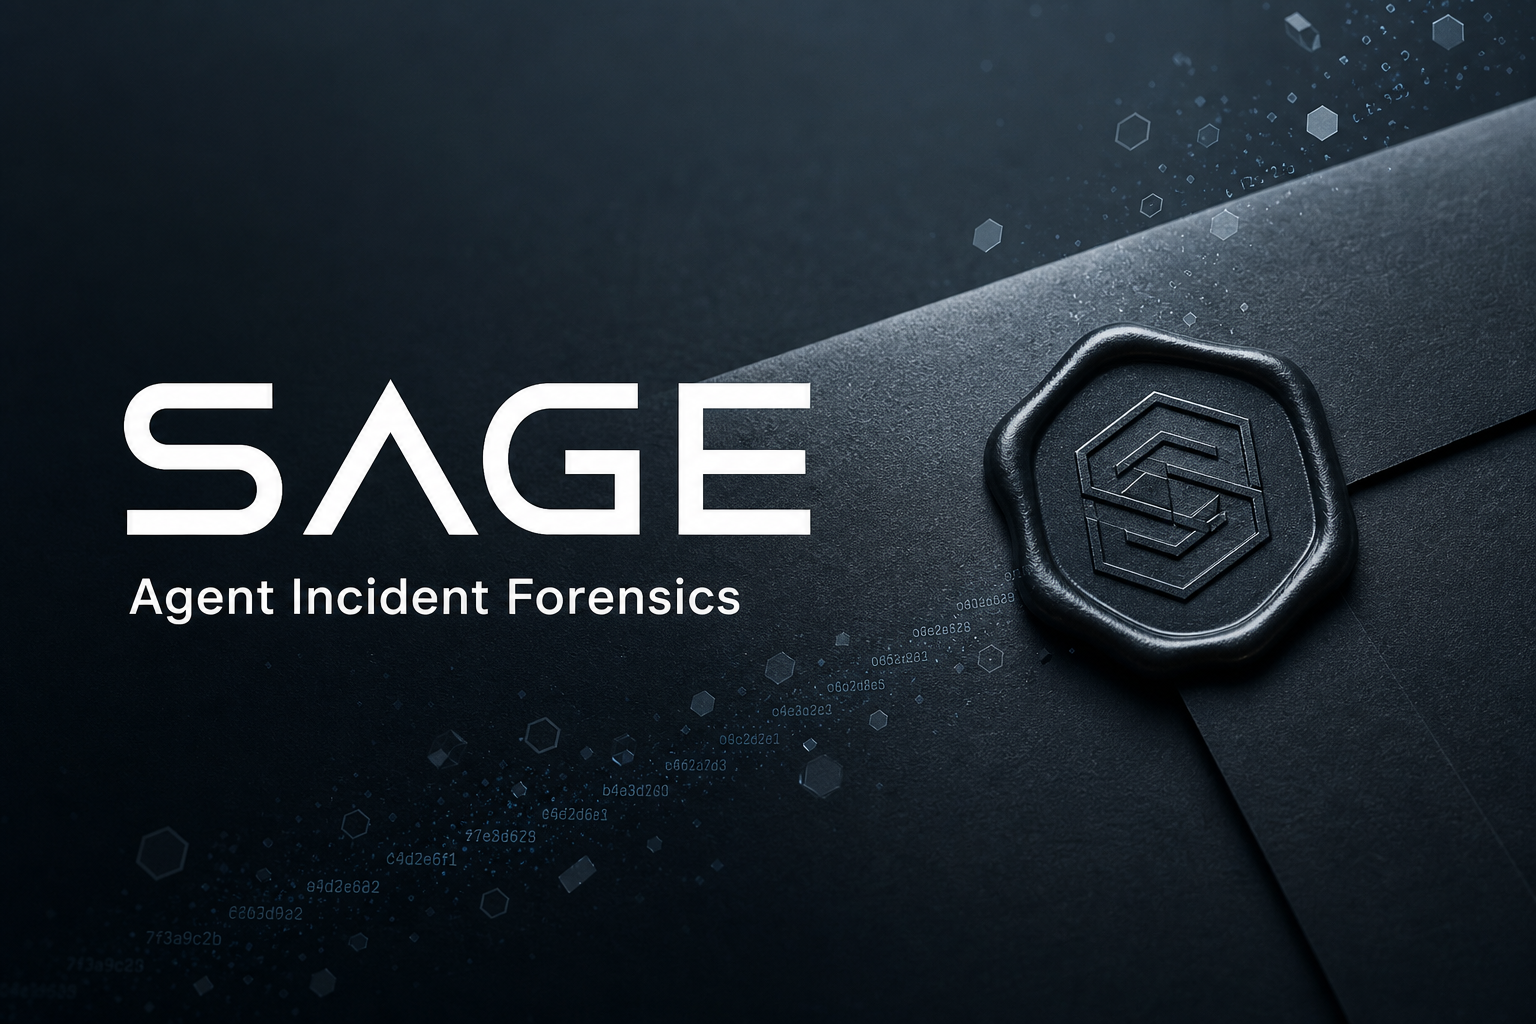
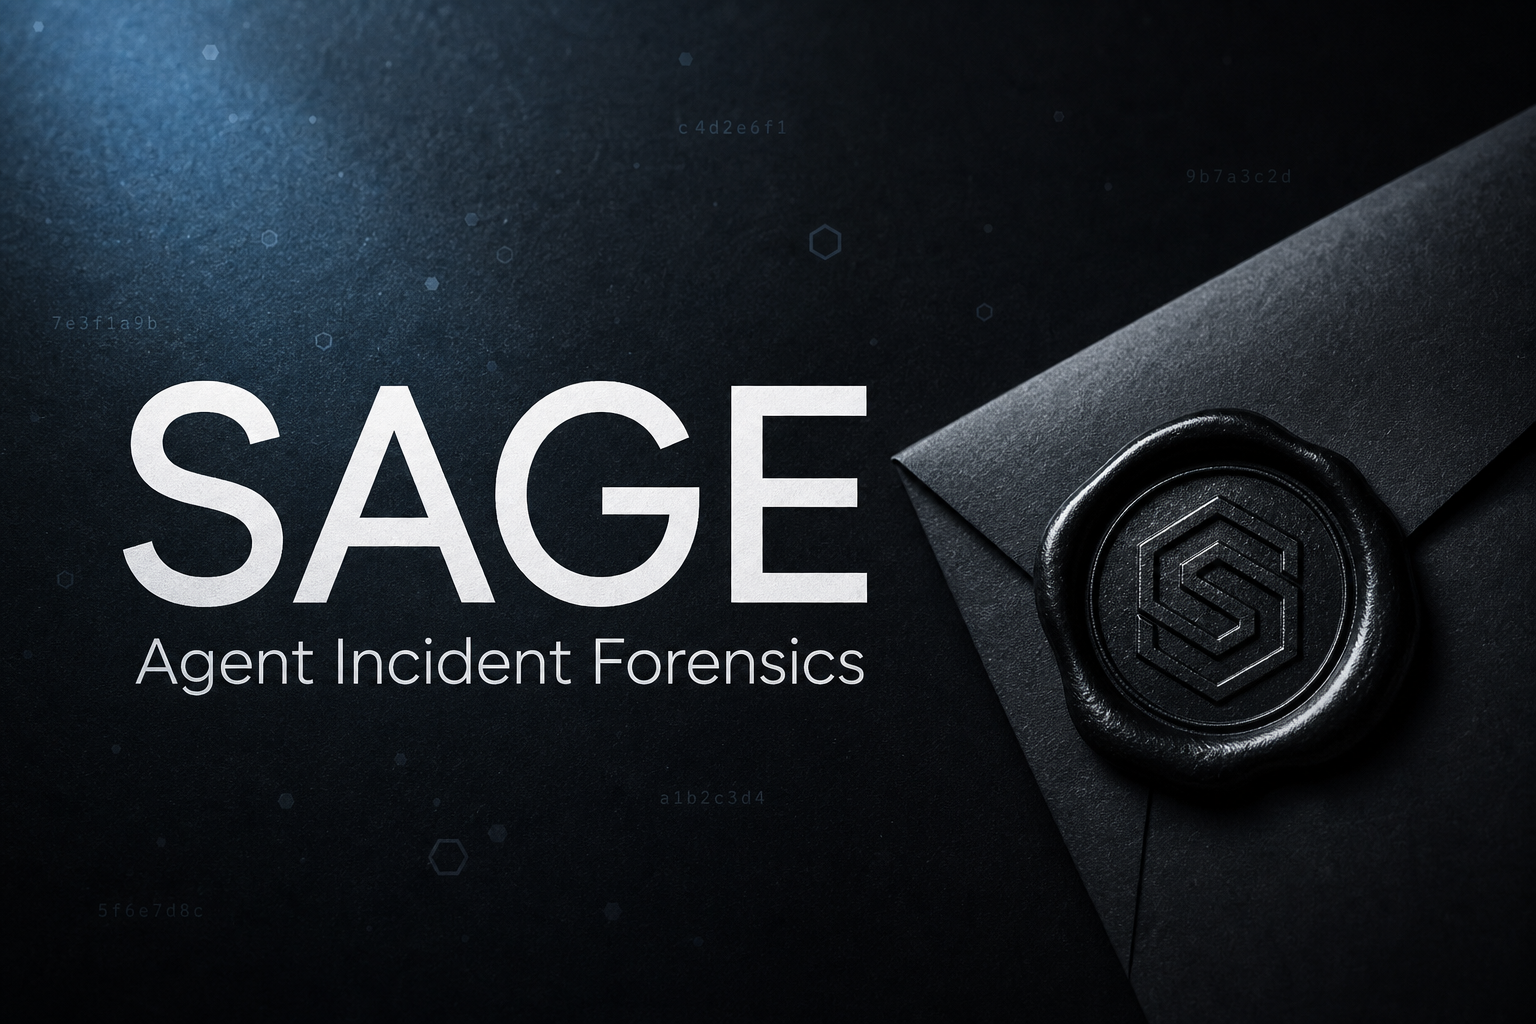
Refresh LinkedIn hero and launch copy for v2.2.0.

diff --git a/docs/LINKEDIN_LAUNCH.md b/docs/LINKEDIN_LAUNCH.md
@@ -1,38 +1,47 @@
 # LinkedIn launch kit
 
-## Post (copy-paste)
+**Status:** repo public · **v2.2.0** · FSL-1.1-ALv2 · CI green on `main`
+
+**Image file:** `docs/assets/sage-linkedin-hero.png` (16:9 — upload this as the post media)
 
 ---
 
-Most agent stacks can *show* you a trace.
+## Post (copy-paste exactly)
 
-Almost none can **hand you evidence** another team can re-verify without trusting your UI.
+Most teams can *show* you an agent trace.
 
-That’s the gap **SAGE** fills.
+Almost none can hand you **evidence** another company can re-verify — offline — without trusting your UI.
 
-SAGE is open-source **agent incident forensics** — not observability SaaS, not an RCA scoreboard, not a chat wrapper.
+That’s the hole **SAGE** fills.
 
-You record a run → redact secrets before hash → seal a portable pack → an auditor verifies it offline with a pinned key and a fail-closed policy.
+SAGE is **agent incident forensics**.
 
-If the pack was tampered with, verify fails. Hard stop.
+Not observability SaaS.  
+Not an RCA leaderboard.  
+Not another chat wrapper.
 
-What it proves: **integrity + custody of what was recorded.**  
-What it does *not* prove: that the model told the truth. (We say that out loud on purpose.)
+You record a run → secrets get redacted before hash → you seal a portable pack → an auditor verifies it fail-closed with a pinned key.
 
-If you ship agents in production and you’ve ever had a “what did it actually do?” incident — star it, break it, or DM me. Looking for design partners who will be brutally honest.
+Tamper the pack? Verify dies. Hard stop.
+
+What it proves: **integrity and custody of what was recorded.**  
+What it does *not* prove: that the model told the truth.  
+(We put that in the threat model on purpose.)
+
+If you ship agents in production and you’ve ever had a “what did it *actually* do?” incident — this is for you.
 
 → https://github.com/Fratres-X-AI/SAGE
 
-FSL-1.1-ALv2 (Fair Source — not a free-for-all SaaS fork) · v2.2.0 · multi-OS CI · pinned Ed25519 · quarantine unpack
+Fair Source (**FSL-1.1-ALv2**) · v2.2.0 · multi-OS CI · pinned Ed25519 · quarantine unpack
+
+DM me **partner** if you want help wiring one real incident path this week. Looking for brutal feedback, not vanity stars.
 
 ---
 
-## Image
+## Posting checklist
 
-Use `docs/assets/sage-linkedin-hero.png` (16:9). Upload as the post image — don’t bury the link only in comments.
-
-## Hashtags (optional, keep light)
-
-`#AIAgents` `#LLMOps` `#SecurityEngineering` `#FairSource` `#Forensics`
-
-Avoid flooding. 3–4 max.
+1. Upload `docs/assets/sage-linkedin-hero.png` as the image (not a GitHub screenshot)
+2. Paste the post above
+3. Optional tags (max 3–4): `#AIAgents` `#LLMOps` `#SecurityEngineering` `#FairSource`
+4. GitHub → Settings → Social preview → same hero image
+5. Don’t apologize in comments. Answer DMs with the partner offer.
